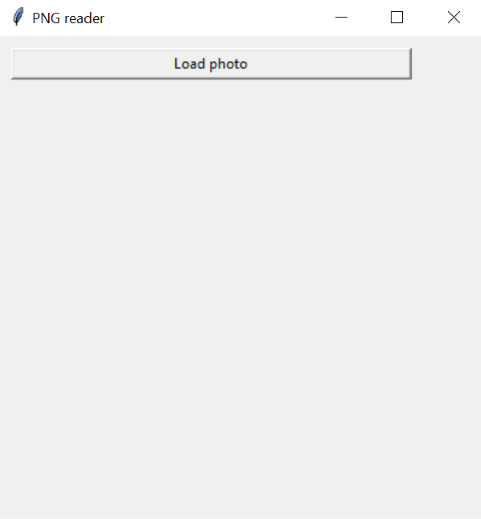
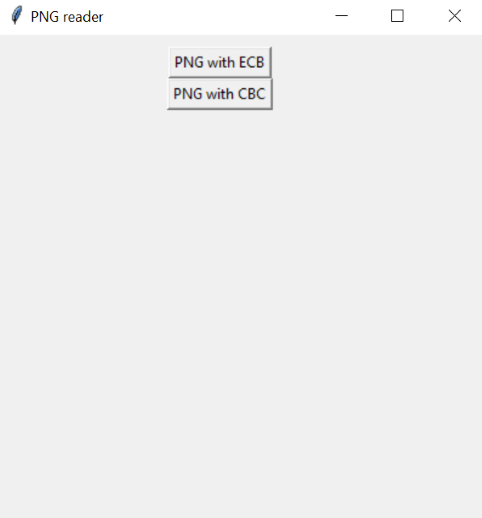
update menu

diff --git a/README.md b/README.md
@@ -99,7 +99,12 @@ In CBC mode, each block of plaintext is XORed with the previous ciphertext block
 python main.py
 ```
 
-2. You will see GUI, press button 'load photo'. GUI can only load png files:
+2. You will see GUI and two buttons:
+
+- 'PNG with ECB'
+- 'PNG with CBC'
+
+After pressing the button, you can load the file. You can load only png files because of the blockade. First button load chosen png files, parse him, show processed chunks, encrypt using our implementation of RSA algorithm in ECB and encrypt using Crypto library in ECB and showing Fast Fourier Transform of image. Second button load chosen png files, parse him, show processed chunks, encrypt using our implementation of RSA algorithm in CBC and showing Fast Fourier Transform of image.
 
 ![Menu](screenshots/menu.PNG "Menu")
 
